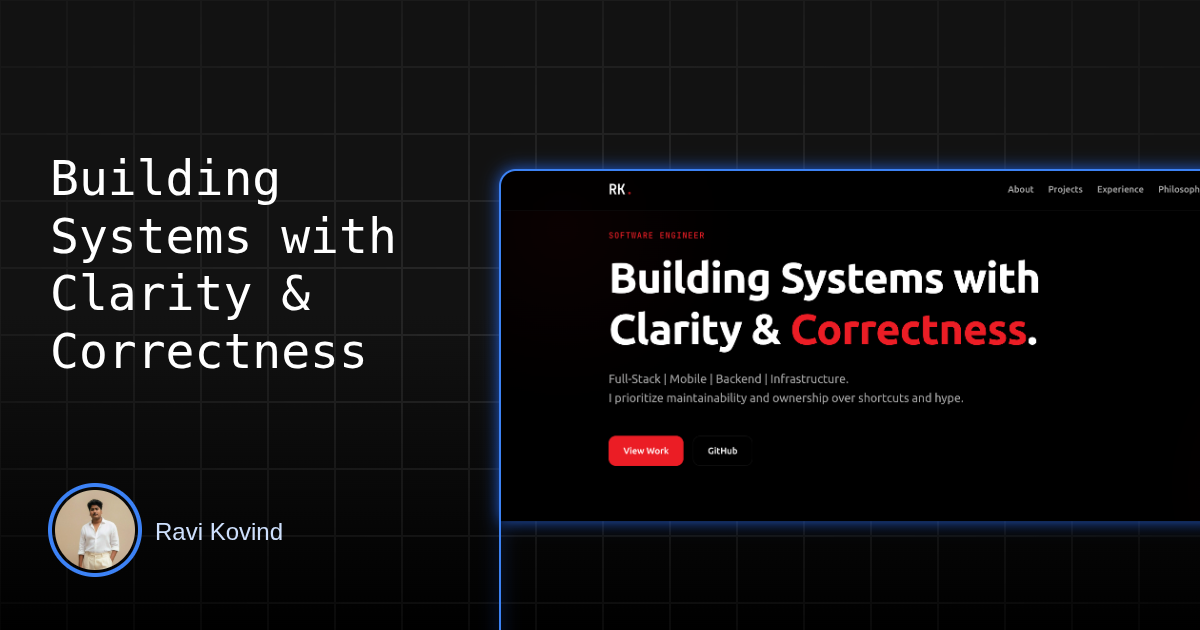
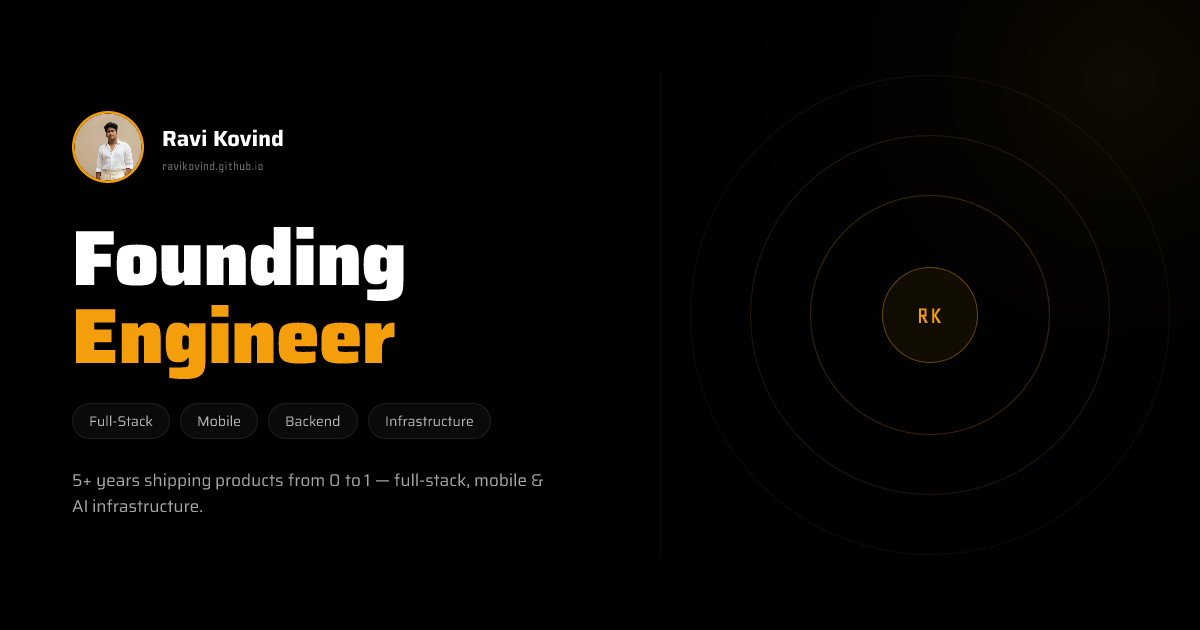
Add snap-x to portfolio, regenerate OG image, improve responsive CSS
- Add snap-x as featured project #06 (GitHub + npm links, Satori/CLI tags)
- Add snap-x to Open Source section with version and description
- Embed snap-x preview image inline in the project row
- Replace og-image.png with new amber-accented split-layout card (snap-x rendered)
- Add snap-x-preview.png asset (1280×640 GitHub social preview)
- Add code tag styling, flex-wrap hero CTA row, mobile spacing fixes

diff --git a/index.html b/index.html
@@ -764,6 +764,34 @@
               <p>Self-hostable, multi-tenant push notification platform with MCP support — AI agents (Claude Desktop etc.) call send_notification and the push lands on your phone. BullMQ + Valkey queue, PgBouncer connection pooling, stateless API/MCP/Worker architecture, and Flutter mobile app.</p>
             </div>
           </div>
+
+          <!-- snap-x -->
+          <div class="project-row">
+            <span class="project-num">06</span>
+            <div class="project-body">
+              <div class="project-title-line">
+                <h3>snap-x</h3>
+                <div class="project-links">
+                  <a href="https://github.com/ravikovind/snap-x" target="_blank" rel="noopener noreferrer" aria-label="GitHub" title="GitHub"><i data-lucide="github"></i></a>
+                  <a href="https://www.npmjs.com/package/@snap-x/cli" target="_blank" rel="noopener noreferrer" aria-label="npm" title="npm">
+                    <svg xmlns="http://www.w3.org/2000/svg" viewBox="0 0 24 24" fill="currentColor" width="20" height="20"><path d="M1.763 0C.786 0 0 .786 0 1.763v20.474C0 23.214.786 24 1.763 24h20.474C23.214 24 24 23.214 24 22.237V1.763C24 .786 23.214 0 22.237 0H1.763zm9.927 5.455h6.818v13.09h-3.41V8.864h-3.408v9.681H7.48V5.455h4.21z"/></svg>
+                  </a>
+                </div>
+              </div>
+              <div class="tags">
+                <span>Node.js</span><span>TypeScript</span><span>Satori</span><span>CLI</span><span>Open Source</span>
+              </div>
+              <p>CLI tool that renders self-contained Satori <code>.mjs</code> design files into platform-ready PNGs — OG cards, YouTube thumbnails, LinkedIn banners, App Store screenshots and more. Exact sizes, safe-zone guides, no browser required. Also ships an MCP server and a Claude Code skill.</p>
+              <img
+                src="assets/snap-x-preview.png"
+                alt="snap-x: render Satori design files into platform-ready PNGs"
+                class="project-preview-img"
+                loading="lazy"
+                width="1280"
+                height="640"
+              />
+            </div>
+          </div>
         </div>
         <p class="projects-more">
           <a
@@ -808,6 +836,13 @@
             <div class="oss-line-content">
               <span class="oss-line-name">recipe_x</span>
               <span class="oss-line-stats">45K+ recipes · Flutter · no ads</span>
+            </div>
+            <i data-lucide="arrow-up-right" class="oss-line-arrow"></i>
+          </a>
+          <a href="https://github.com/ravikovind/snap-x" target="_blank" rel="noopener noreferrer" class="oss-line">
+            <div class="oss-line-content">
+              <span class="oss-line-name">snap-x</span>
+              <span class="oss-line-stats">@snap-x/cli · Satori · platform-ready PNGs · v0.2.1</span>
             </div>
             <i data-lucide="arrow-up-right" class="oss-line-arrow"></i>
           </a>

diff --git a/styles/style.css b/styles/style.css
@@ -2268,3 +2268,102 @@ noscript .fade-in-section {
     #cursor-dot.hidden,
     #cursor-ring.hidden { opacity: 0 !important; }
 }
+
+/*
+ * Project preview image (inline in project rows)
+ */
+.project-preview-img {
+    display: block;
+    width: 100%;
+    max-width: 640px;
+    height: auto;
+    border-radius: var(--radius-md);
+    border: 1px solid var(--card-border);
+    margin-top: 14px;
+    transition: border-color 0.25s ease, box-shadow 0.25s ease;
+}
+
+.project-row:hover .project-preview-img {
+    border-color: rgba(245, 158, 11, 0.35);
+    box-shadow: 0 4px 24px rgba(245, 158, 11, 0.1);
+}
+
+/*
+ * Inline code
+ */
+code {
+    font-family: var(--font-mono);
+    font-size: 0.85em;
+    background: rgba(245, 158, 11, 0.08);
+    color: var(--accent);
+    padding: 1px 6px;
+    border-radius: 4px;
+    border: 1px solid rgba(245, 158, 11, 0.18);
+}
+
+/*
+ * Responsive — small-screen patches
+ */
+
+/* Shrink section vertical rhythm on mobile */
+@media (max-width: 640px) {
+    :root {
+        --spacing-xl: 64px;
+        --spacing-lg: 36px;
+    }
+
+    .hero-greeting {
+        font-size: 2.1rem;
+    }
+
+    .hero-tagline {
+        font-size: 1.25rem;
+    }
+
+    /* Allow hero CTA buttons to wrap on tiny phones */
+    .hero-actions-row {
+        flex-wrap: wrap;
+    }
+
+    /* Give the Download PDF / Resume button breathing room */
+    .btn-outline {
+        flex-shrink: 0;
+    }
+
+    /* Section tagline fits without overflow */
+    .section-tagline {
+        font-size: 1.05rem;
+    }
+
+    /* OSS line: let name stack above stats on tiny screens */
+    .oss-line-content {
+        gap: 2px;
+    }
+
+    .oss-line-name {
+        font-size: 0.88rem;
+    }
+
+    .oss-line-stats {
+        font-size: 0.72rem;
+    }
+}
+
+/* Resume PDF download button — visible on mobile too */
+@media (max-width: 480px) {
+    .hero-actions {
+        width: 100%;
+    }
+
+    .hero-actions-row .btn {
+        flex: 1 1 auto;
+        text-align: center;
+        justify-content: center;
+    }
+
+    /* Keep ghost icon buttons round and small */
+    .hero-actions-row .btn-ghost {
+        flex: 0 0 48px;
+    }
+}
+}
